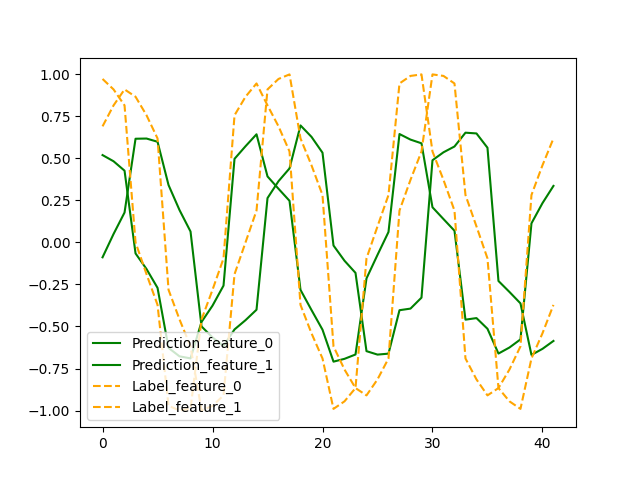
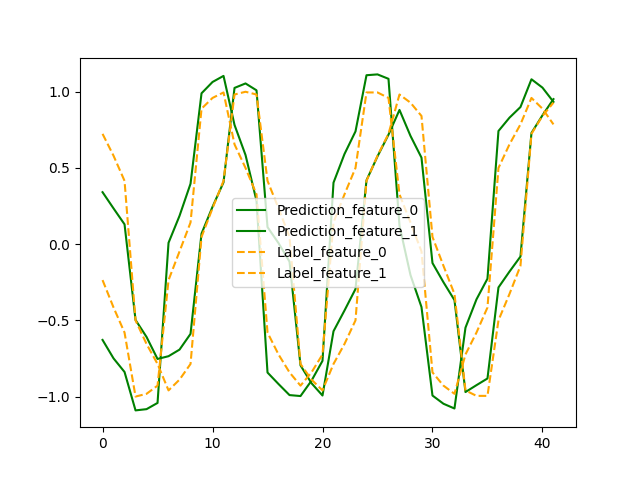
fix dec_output

diff --git a/Transformer/test_transformer.py b/Transformer/test_transformer.py
@@ -60,10 +60,10 @@ def test_transformer():
             enc_input = full_len_input.numpy()[:enc_seq_len]
             enc_input = Variable(torch.from_numpy(enc_input)).to(device)
 
-            dec_input = full_len_input.numpy()[enc_seq_len - 1:enc_seq_len - 1 + dec_seq_len]
+            dec_input = dec_output.numpy()[enc_seq_len - 1:enc_seq_len - 1 + dec_seq_len]
             dec_input = Variable(torch.from_numpy(dec_input)).to(device)
 
-            dec_output = full_len_input.numpy()[enc_seq_len:enc_seq_len + dec_seq_len]
+            dec_output = dec_output.numpy()[enc_seq_len:enc_seq_len + dec_seq_len]
             dec_output = Variable(torch.from_numpy(dec_output)).to(device)
 
             # [enc_seq_len, enc_features_size] -> [enc_seq_len, 1, enc_features_size]
